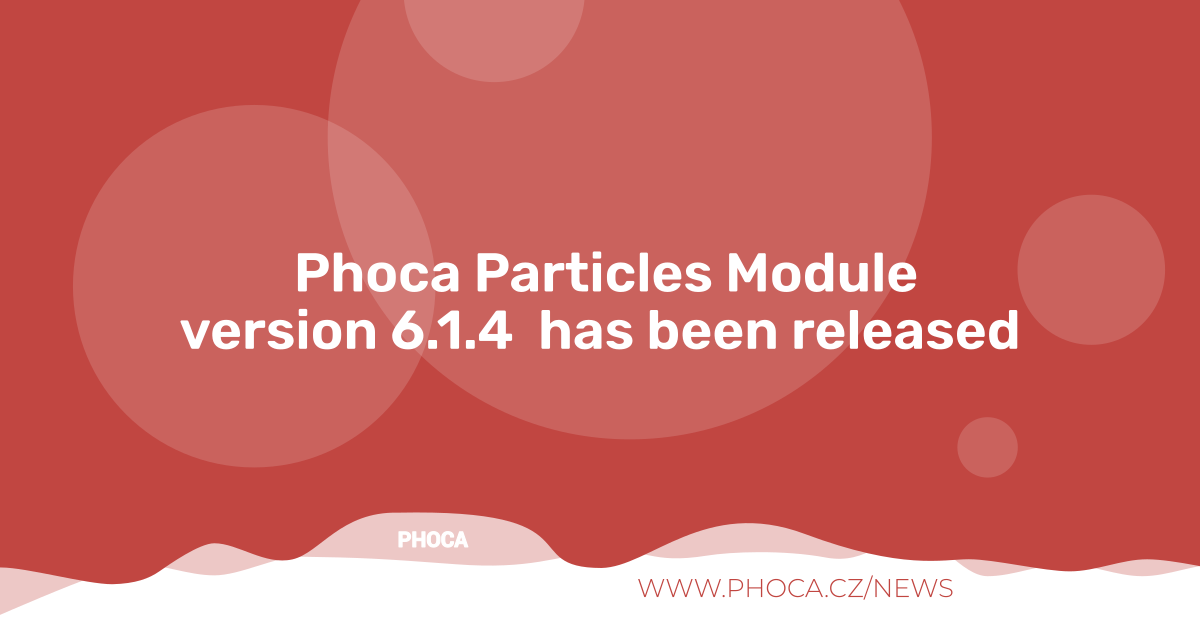
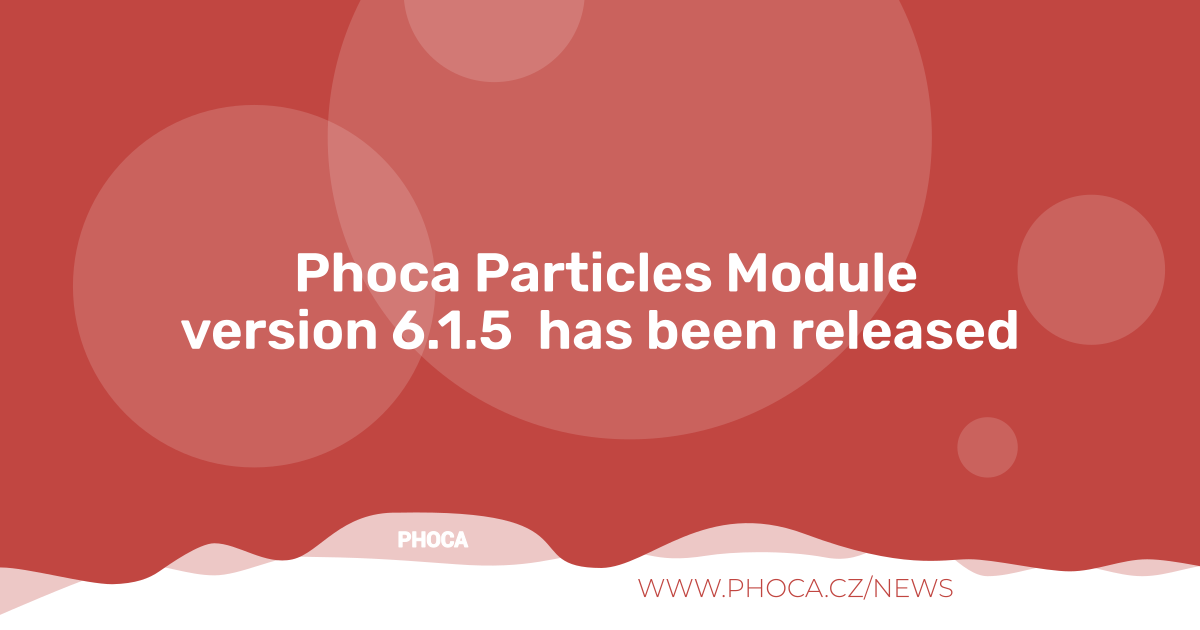
6.1.5

diff --git a/README.MD b/README.MD
@@ -60,7 +60,7 @@ If you need additional information beyond this GitHub repository, further docume
 
 #### Demo
 
-- [Phoca Cart](https://www.phoca.cz/phocacart/)
+- [Demo (Phoca Cart)](https://www.phoca.cz/phocacart/)
 
 ### Version (Joomla! 3.x - no longer supported)
 3.0.8
@@ -69,7 +69,7 @@ If you need additional information beyond this GitHub repository, further docume
 ### Version (Joomla! 5.x - no longer supported)
 5.1.2
 ### Version (Joomla! 6.x)
-6.1.4
+6.1.5
 
 ### License
 
